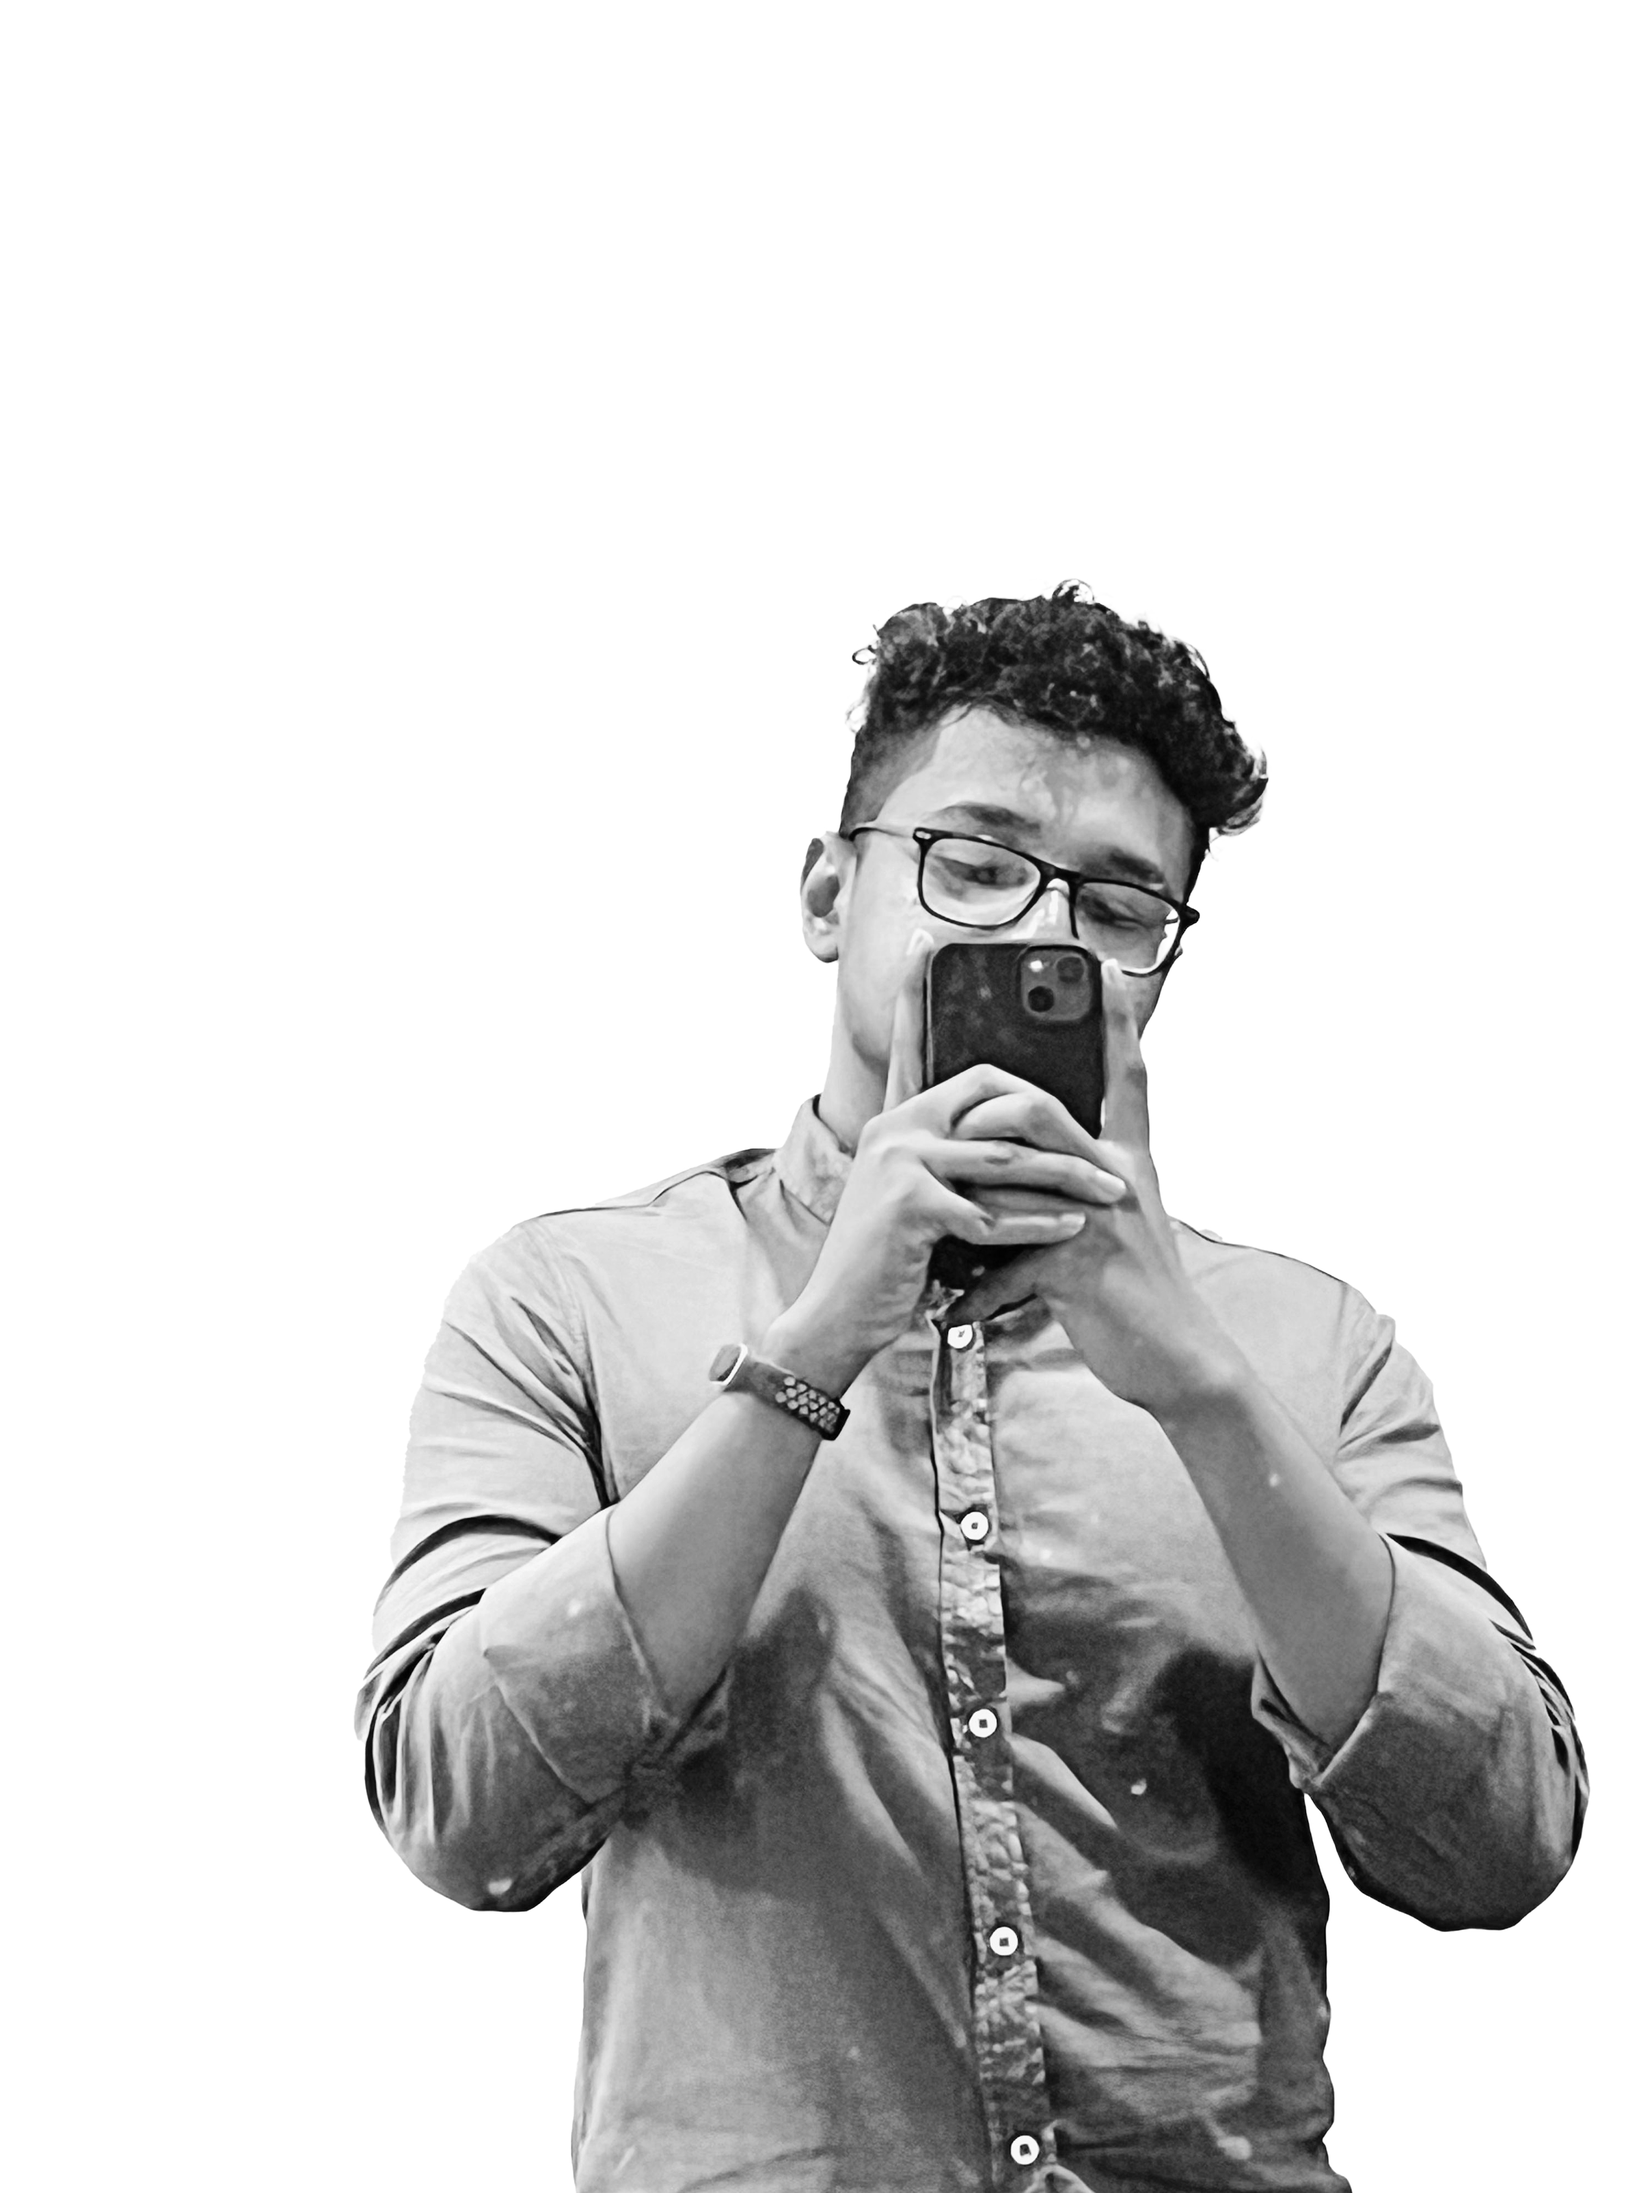
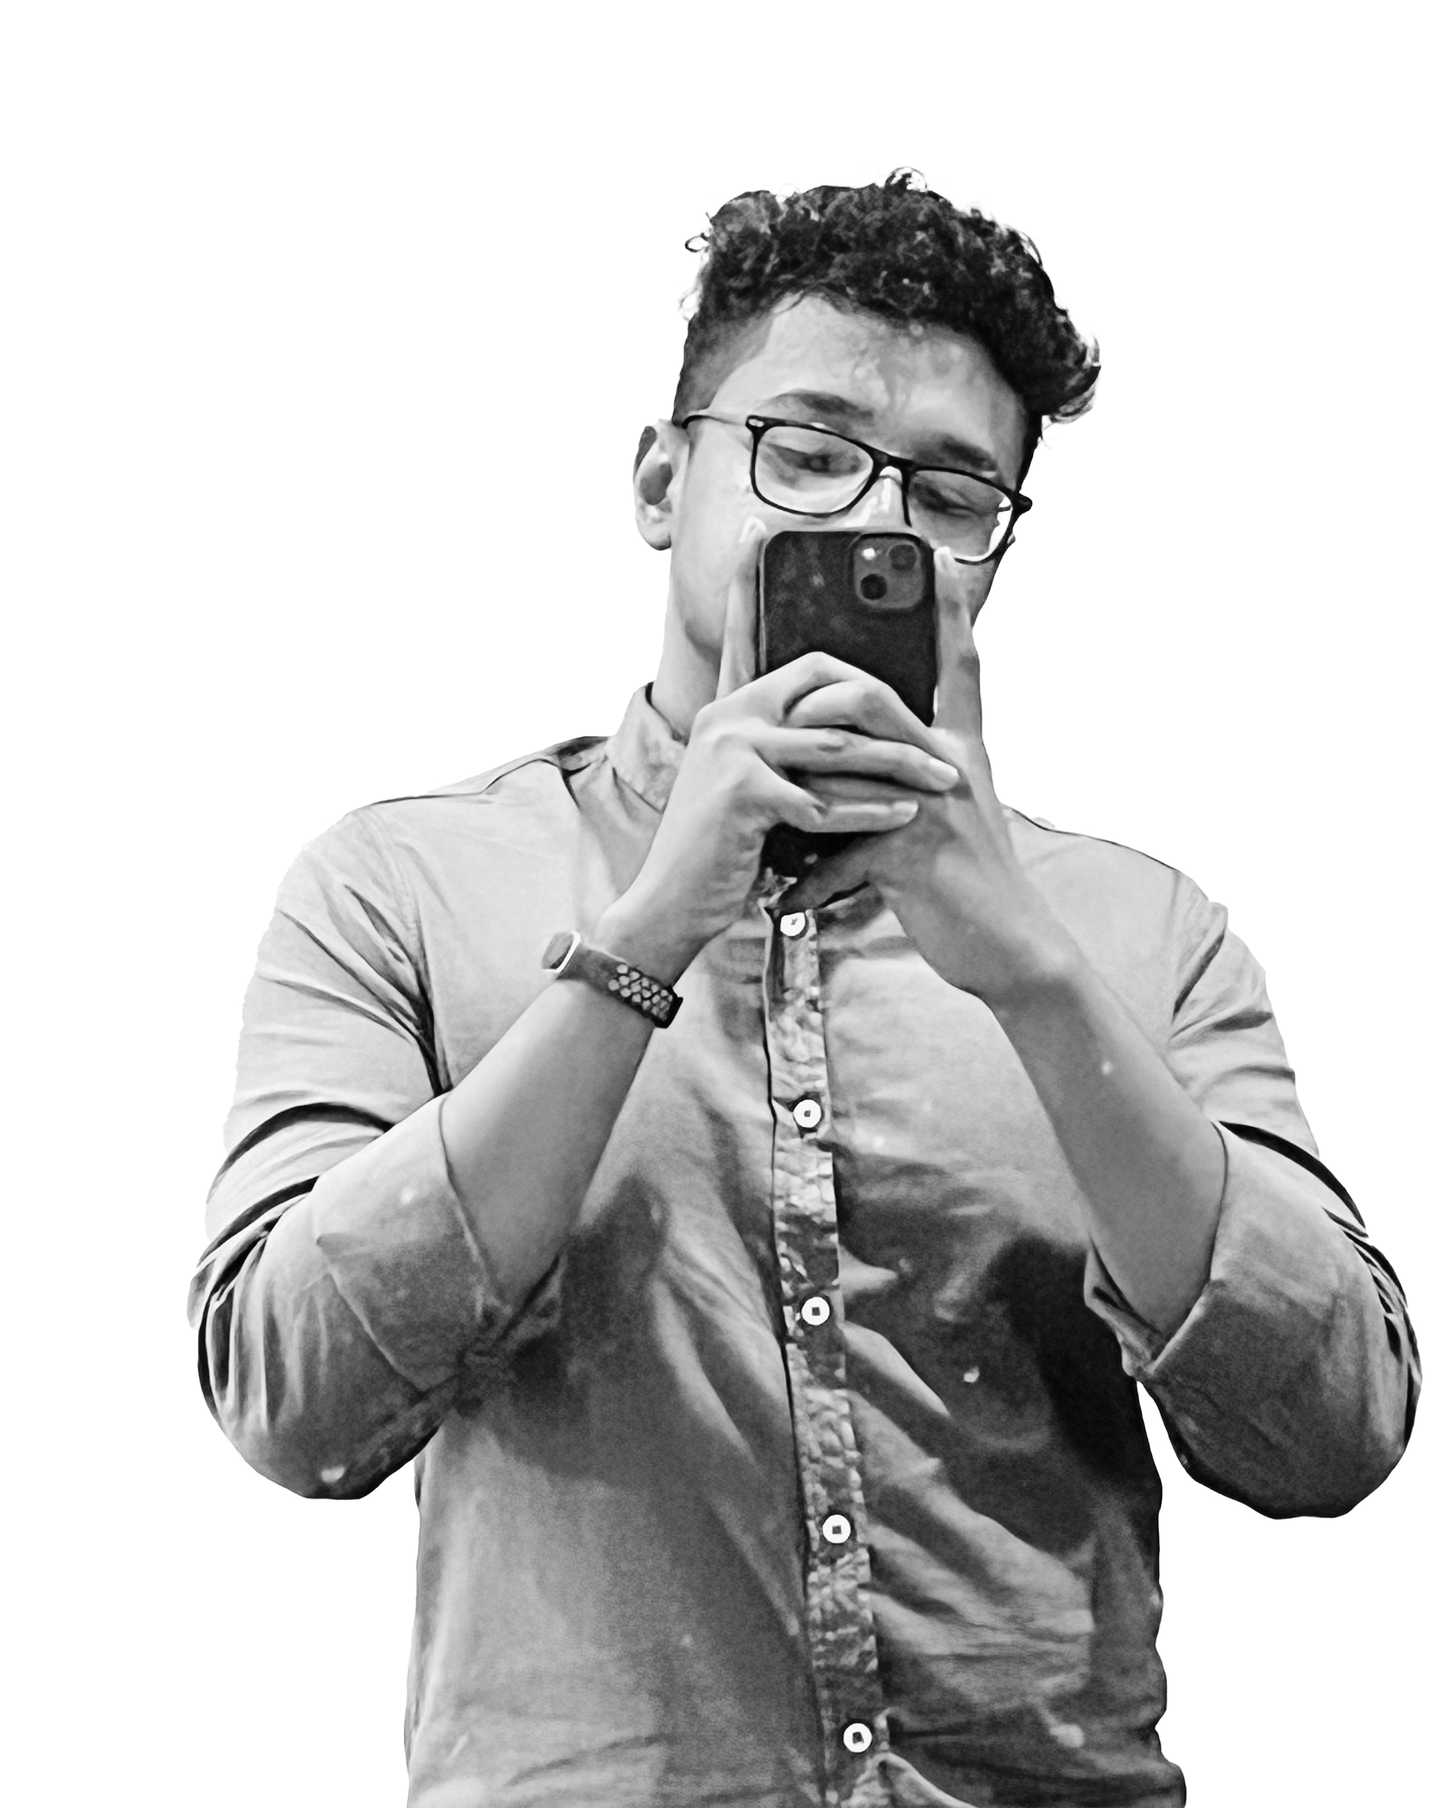
Update some links & issues

diff --git a/index.html b/index.html
@@ -75,12 +75,12 @@
             <p>I'm <span class="typed" data-typed-items="Developer, Undergraduate, Freelancer"></span><span
                 class="typed-cursor typed-cursor--blink" aria-hidden="true"></span></p>
             <div class="social-links">
-              <a href="#"><i class="bi bi-twitter-x"></i></a>
               <a href="https://web.facebook.com/akila.lakshitha.75/"><i class="bi bi-facebook"></i></a>
               <a href="https://www.instagram.com/mr.akiyaa_/"><i class="bi bi-instagram"></i></a>
               <a href="https://www.linkedin.com/in/akila-lakshitha/"><i class="bi bi-linkedin"></i></a>
               <a href="https://github.com/mrakiyaaa"><i class="bi bi-github"></i></a>
               <a href="https://dribbble.com/AkilaAluthwela"><i class="bi bi-dribbble"></i></a>
+              <a href="https://medium.com/@akilalakshitha572"><i class="bi bi-medium"></i></a>
 
 
             </div>
@@ -103,7 +103,7 @@
 
         <div class="row gy-4 justify-content-center">
           <div class="col-lg-4">
-            <img src="assets/img/profile.jpg" class="img-fluid" alt="">
+            <img src="assets/img/profile.jpg" class="img-fluid img-profile" alt="">
           </div>
           <div class="col-lg-8 content">
             <h2>Software Engineering Undergraduate</h2>
@@ -243,6 +243,14 @@
                 </div>
               </div><!-- End Skills Item -->
 
+              <div class="progress">
+                <span class="skill"><span>Databases</span> <i class="val"></i></span>
+                <div class="progress-bar-wrap">
+                  <div class="progress-bar" role="progressbar" aria-valuenow="100" aria-valuemin="0"
+                    aria-valuemax="100"></div>
+                </div>
+              </div><!-- End Skills Item -->
+
             </div>
 
             <div class="col-lg-6">
@@ -256,7 +264,7 @@
               </div><!-- End Skills Item -->
 
               <div class="progress">
-                <span class="skill"><span>Software Automated Testing</span> <i class="val"></i></span>
+                <span class="skill"><span>Software Quality Assurance</span> <i class="val"></i></span>
                 <div class="progress-bar-wrap">
                   <div class="progress-bar" role="progressbar" aria-valuenow="100" aria-valuemin="0"
                     aria-valuemax="100"></div>
@@ -911,13 +919,14 @@
       <h3 class="sitename">Akila Lakshitha</h3>
       <!-- <p>Et aut eum quis fuga eos sunt ipsa nihil. Labore corporis magni eligendi fuga maxime saepe commodi placeat.</p> -->
       <div class="social-links d-flex justify-content-center">
-        <a href=""><i class="bi bi-twitter-x"></i></a>
         <a href="https://web.facebook.com/akila.lakshitha.75/"><i class="bi bi-facebook"></i></a>
         <a href="https://www.instagram.com/mr.akiyaa_/"><i class="bi bi-instagram"></i></a>
         <!-- <a href=""><i class="bi bi-skype"></i></a> -->
         <a href="https://www.linkedin.com/in/akila-lakshitha/"><i class="bi bi-linkedin"></i></a>
         <a href="https://github.com/mrakiyaaa"><i class="bi bi-github"></i></a>
         <a href="https://dribbble.com/AkilaAluthwela"><i class="bi bi-dribbble"></i></a>
+        <a href="https://medium.com/@akilalakshitha572"><i class="bi bi-medium"></i></a>
+
 
       </div>
       <div class="container">

diff --git a/assets/css/main.css b/assets/css/main.css
@@ -176,6 +176,10 @@ h6 {
   display: none;
 }
 
+.img-profile {
+  border-radius: 25px;
+}
+
 
 /* .content-img {
   z-index: 1;
@@ -191,6 +195,7 @@ h6 {
   .content-img {
       background-size: cover;
       opacity: 50%;
+      height: 50px;
       background-position: center;
       background-repeat: no-repeat;
   }
